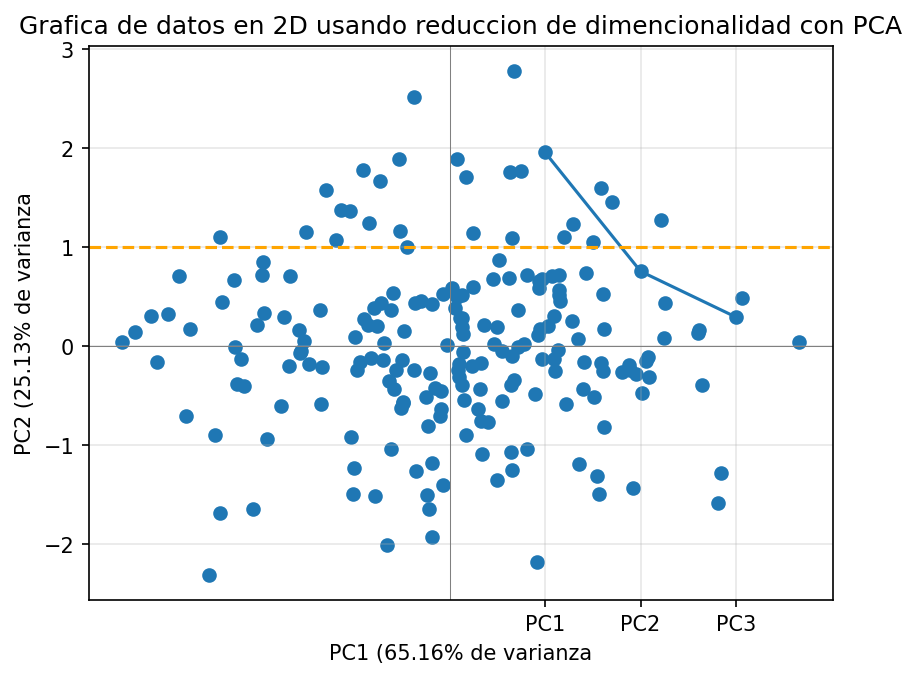
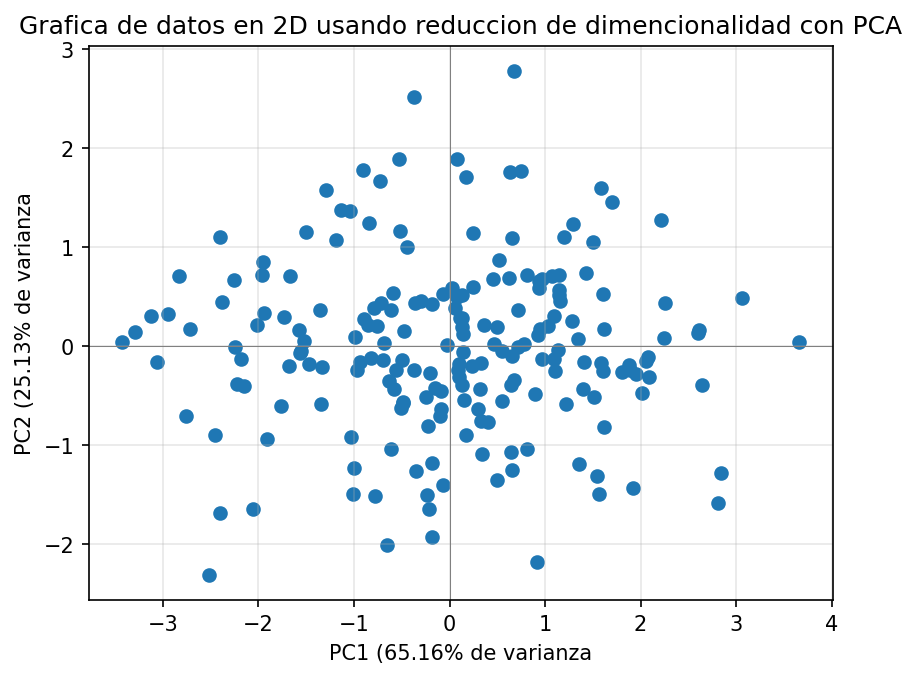
se corrigieron las graficas interpuestas

diff --git a/Main/PCA_algebraLin.py b/Main/PCA_algebraLin.py
@@ -45,10 +45,11 @@ def leer_datos():
     plt.grid(alpha=0.3)
 
     plt.savefig("Data/ScreePlot-png", dpi =150, bbox_inches="tight")
+    plt.close()
 
     PC1 = X_estand @ autovectores[:, 0]
     PC2 = X_estand @ autovectores[:, 1]
-    PC3 = C_estand @ autovectores[:, 3]
+    PC3 = X_estand @ autovectores[:, 2]
 
     #graficar
 
